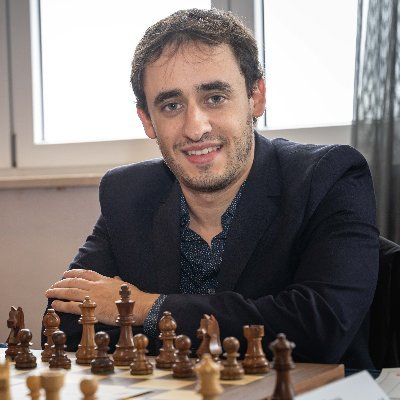
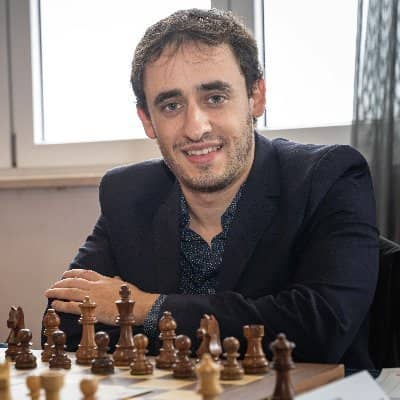
last optimizations

diff --git a/pages/Components/Profesors/index.js b/pages/Components/Profesors/index.js
@@ -9,7 +9,7 @@ const Profesors = () => {
             </div>
 
             <article className="profesor col-lg-4 md-4 sm-12">
-                <img className="profesor-photo" src="/img/profesors/gmandresrodriguez.jpg" />
+                <img className="profesor-photo" src="/img/profesors/gmandresrodriguez.jpeg" />
                 <h4 className="profesor-name">GM Andrés Rodríguez</h4>
                 <p className="profesor-description">Gran Maestro Internacional de ajedrez desde 1997.
                 Campeón Panamericano Juvenil en Asunción del Paraguay en mayo de 1990.
@@ -20,7 +20,7 @@ const Profesors = () => {
             </article>
 
             <article className="profesor col-lg-4 md-4 sm-12">
-                <img className="profesor-photo" src="/img/profesors/mijorgerosito.jpg" />
+                <img className="profesor-photo" src="/img/profesors/mijorgerosito.jpeg" />
                 <h4 className="profesor-name">MI Jorge Rosito</h4>
                 <p className="profesor-description">Maestro Internacional desde 1998
                 Norma de GM en 2003
@@ -33,7 +33,7 @@ const Profesors = () => {
             </article>
 
             <article className="profesor col-lg-4 md-4 sm-12">
-                <img className="profesor-photo" src="/img/profesors/mibenjaminmela.jpg" />
+                <img className="profesor-photo" src="/img/profesors/mibenjaminmela.jpeg" />
                 <h4 className="profesor-name">MI Benjamín Mela</h4>
                 <p className="profesor-description">Maestro Internacional desde 2006 (Barcelona, España 🇪🇸)
                 Entrenador de los seleccionados Catalanes de categorías (2005/2006) en las finales del Campeonato de España 🇪🇸
@@ -46,7 +46,7 @@ const Profesors = () => {
             <div className="col-lg-2 md-2 sm-0"></div>
 
             <article className="profesor col-lg-4 md-4 sm-12">
-                <img className="profesor-photo" src="/img/profesors/gmdiegoflores.jpg" />
+                <img className="profesor-photo" src="/img/profesors/gmdiegoflores.jpeg" />
                 <h4 className="profesor-name">GM Diego Flores</h4>
                 <p className="profesor-description">Gran Maestro Internacional desde 2008.
                 Campeón Argentino Absoluto en 7 ocasiones.
@@ -58,7 +58,7 @@ const Profesors = () => {
             </article>
 
             <article className="profesor col-lg-4 md-4 sm-12">
-                <img className="profesor-photo" src="/img/profesors/gmleandrokrysa.jpg" />
+                <img className="profesor-photo" src="/img/profesors/gmleandrokrysa.jpeg" />
                 <h4 className="profesor-name">GM Leandro Krysa</h4>
                 <p className="profesor-description">-GM desde 2017
 -Fide Trainer (Georgia 2018)

diff --git a/pages/Components/About/index.js b/pages/Components/About/index.js
@@ -1,4 +1,6 @@
 import React from 'react';
+import FlipCountdown from "@rumess/react-flip-countdown";
+
 
 const About = () => {
 
@@ -10,21 +12,36 @@ return (
         <h2>información del curso:</h2>
     </div>
 
-    <p className="about-description">
-    Del 23 de Octubre al 1 de Noviembre<br/><br/>
+    <div className="col-lg-6 sm-12">
+        <p className="about-description">
+        Del 23 de Octubre al 1 de Noviembre<br/><br/>
 
-    - Horarios 11hs a 13hs de Argentina y 16hs a 18hs de España Fines de semana<br/>
-    Y de 16hs a 18hs de Argentina, 21hs a 23hs de España días laborales<br/><br/>
+        - 15% OFF Hasta el 20/10 a las 23:59hs<br/><br/>
 
-    -Fin de semana (30 y 31 de Octubre) actividades (Simultaneas, torneos, problemas, curso GM Krysa)<br/><br/>
+        - Horarios 11hs a 13hs de Argentina y 16hs a 18hs de España Fines de semana<br/>
+        Y de 16hs a 18hs de Argentina, 21hs a 23hs de España días laborales<br/><br/>
 
-    -Dos niveles: Sub 1800 y Supra 1800<br/><br/>
+        -Fin de semana (30 y 31 de Octubre) actividades (Simultaneas, torneos, problemas, curso GM Krysa)<br/><br/>
 
-    -Duración de las clases 2 horas .<br/><br/>
+        -Dos niveles: Sub 1800 y Supra 1800<br/><br/>
 
-    -Serán 18 horas de clases Del 23 de Octubre al 1 de Noviembre, más 4 horas de actividades especiales<br/>
-     que quedarán grabadas y a disposición de los alumnos, más las actividades extras<br/><br/>
-    </p>
+        -Duración de las clases 2 horas .<br/><br/>
+
+        -Serán 18 horas de clases Del 23 de Octubre al 1 de Noviembre, más 4 horas de actividades especiales<br/>
+        que quedarán grabadas y a disposición de los alumnos, más las actividades extras<br/><br/>
+        </p>
+    </div>
+    <div className="col-lg-6 sm-12 vertical-align">
+    <div className="clock-countdown" style={{ backgroundColor: "#c7c5c5" }}>
+        <h1 className="Oswald" style={{ color: "#f02626" }}>El 15% OFF finaliza en</h1>
+        <FlipCountdown
+            theme="light"
+            hideYear
+            hideMonth
+            endAt={"2020-10-20 23:59:59"} // Date/Time
+        />
+       </div>
+    </div>
 
     <hr className="hr"/>
 

diff --git a/pages/Components/Pricing/index.js b/pages/Components/Pricing/index.js
@@ -20,17 +20,15 @@ const Pricing = () => {
         <div className="pricing-metodos-de-pago">
             <h4>Métodos de pago</h4>
             <ul>
-                <li>Paypal, tarjeta débito o crédito internacional USD 80</li>
-                <li>Transferencia bancaria en todo Europa €75</li>
-                <li>Transferencia bancaria solo Argentinos $AR 8000</li>
-                <li>Mercado Pago Argentinos $AR 8000</li>
+                <li>Paypal, tarjeta débito o crédito internacional <span className="precio-tachado">USD 80</span> USD 68</li>
+                <li>Transferencia bancaria solo Argentinos <span className="precio-tachado">$AR 9600</span> $AR 8160</li>
+                <li>Mercado Pago Argentinos <span className="precio-tachado">$AR 9600</span> $AR 8160</li>
             </ul>
             <h4>Precio por clase</h4>
             <ul>
                 <li>Paypal, tarjeta débito o crédito internacional USD 10</li>
-                <li>Transferencia bancaria en todo Europa  €10 </li>
-                <li>Transferencia bancaria solo Argentinos $AR 1000</li>
-                <li>Mercado Pago Argentinos $AR 1000</li>
+                <li>Transferencia bancaria solo Argentinos $AR 1200</li>
+                <li>Mercado Pago Argentinos $AR 1200</li>
             </ul>
         </div>
 

diff --git a/pages/Components/Form/index.js b/pages/Components/Form/index.js
@@ -37,7 +37,7 @@ const Form = () => {
       <label>Email:</label>
       <input type="text"
                     name="email"
-                    ref={register({ pattern: /^(([^<>()\[\]\\.,;:\s@"]+(\.[^<>()\[\]\\.,;:\s@"]+)*)|(".+"))@((\[[0-9]{1,3}\.[0-9]{1,3}\.[0-9]{1,3}\.[0-9]{1,3}\])|(([a-zA-Z\-0-9]+\.)+[a-zA-Z]{2,}))$/, required: true })}
+                    ref={register({ pattern: /^(([^<>()\[\]\\.,;:\s@"]+(\.[^<>()\[\]\\.,;:\s@"]+)*)|(".+"))@((\[[0-9]{1,3}\.[0-9]{1,3}\.[0-9]{1,3}\.[0-9]{1,3}\])|(([a-zA-Z\-0-9]+\.)+[a-zA-Z]{2,}))$/, required: "Ingrese un email válido" })}
                 />
       <div className="error-input">{errors.email && errors.email.message}</div>
 

diff --git a/styles/components.scss b/styles/components.scss
@@ -50,3 +50,31 @@
   .cien{
       width:85%!important;
   }
+
+.precio-tachado{
+    color: $light-red;
+    text-decoration: line-through;
+}
+
+.clock-countdown{
+    text-align: center;
+    padding-bottom: 32px;
+    padding-left: 32px;
+    padding-right: 32px;
+    padding-top: 2px;
+    border-radius: 10px;
+    font-size: 1.4em;
+    h1{
+        font-size:1.8em
+    }
+}
+
+.Oswald{
+    font-family: 'Oswald'!important;
+    font-weight: 700;
+}
+
+.vertical-align{
+    margin-top: auto;
+    margin-bottom: auto;
+}

diff --git a/styles/layout.scss b/styles/layout.scss
@@ -1,5 +1,6 @@
 @import url('https://fonts.cdnfonts.com/css/din-pro-cond');
 @import url('https://fonts.cdnfonts.com/css/gobold');
+@import url('https://fonts.googleapis.com/css2?family=Oswald&display=swap');
 
 *{
     font-family: 'DIN Pro Cond', sans-serif;
@@ -115,7 +116,9 @@ header{
         width: 85%;
         padding:9px;
         font-size:1.2em;
-        margin-bottom: 16px;
+        margin: 5px;
+        box-sizing: border-box;
+        border: 1px solid;
     }
     input[type=radio]{
         zoom: 2.0;

diff --git a/styles/base.scss b/styles/base.scss
@@ -3,6 +3,7 @@ $yellow : #ffcc07;
 $dark-blue : #000034;
 $light-blue : #007cfd;
 $dark-red : #920d0d;
+$light-red : #e82727;
 
 $black : #000000;
 $white : #ffffff;
